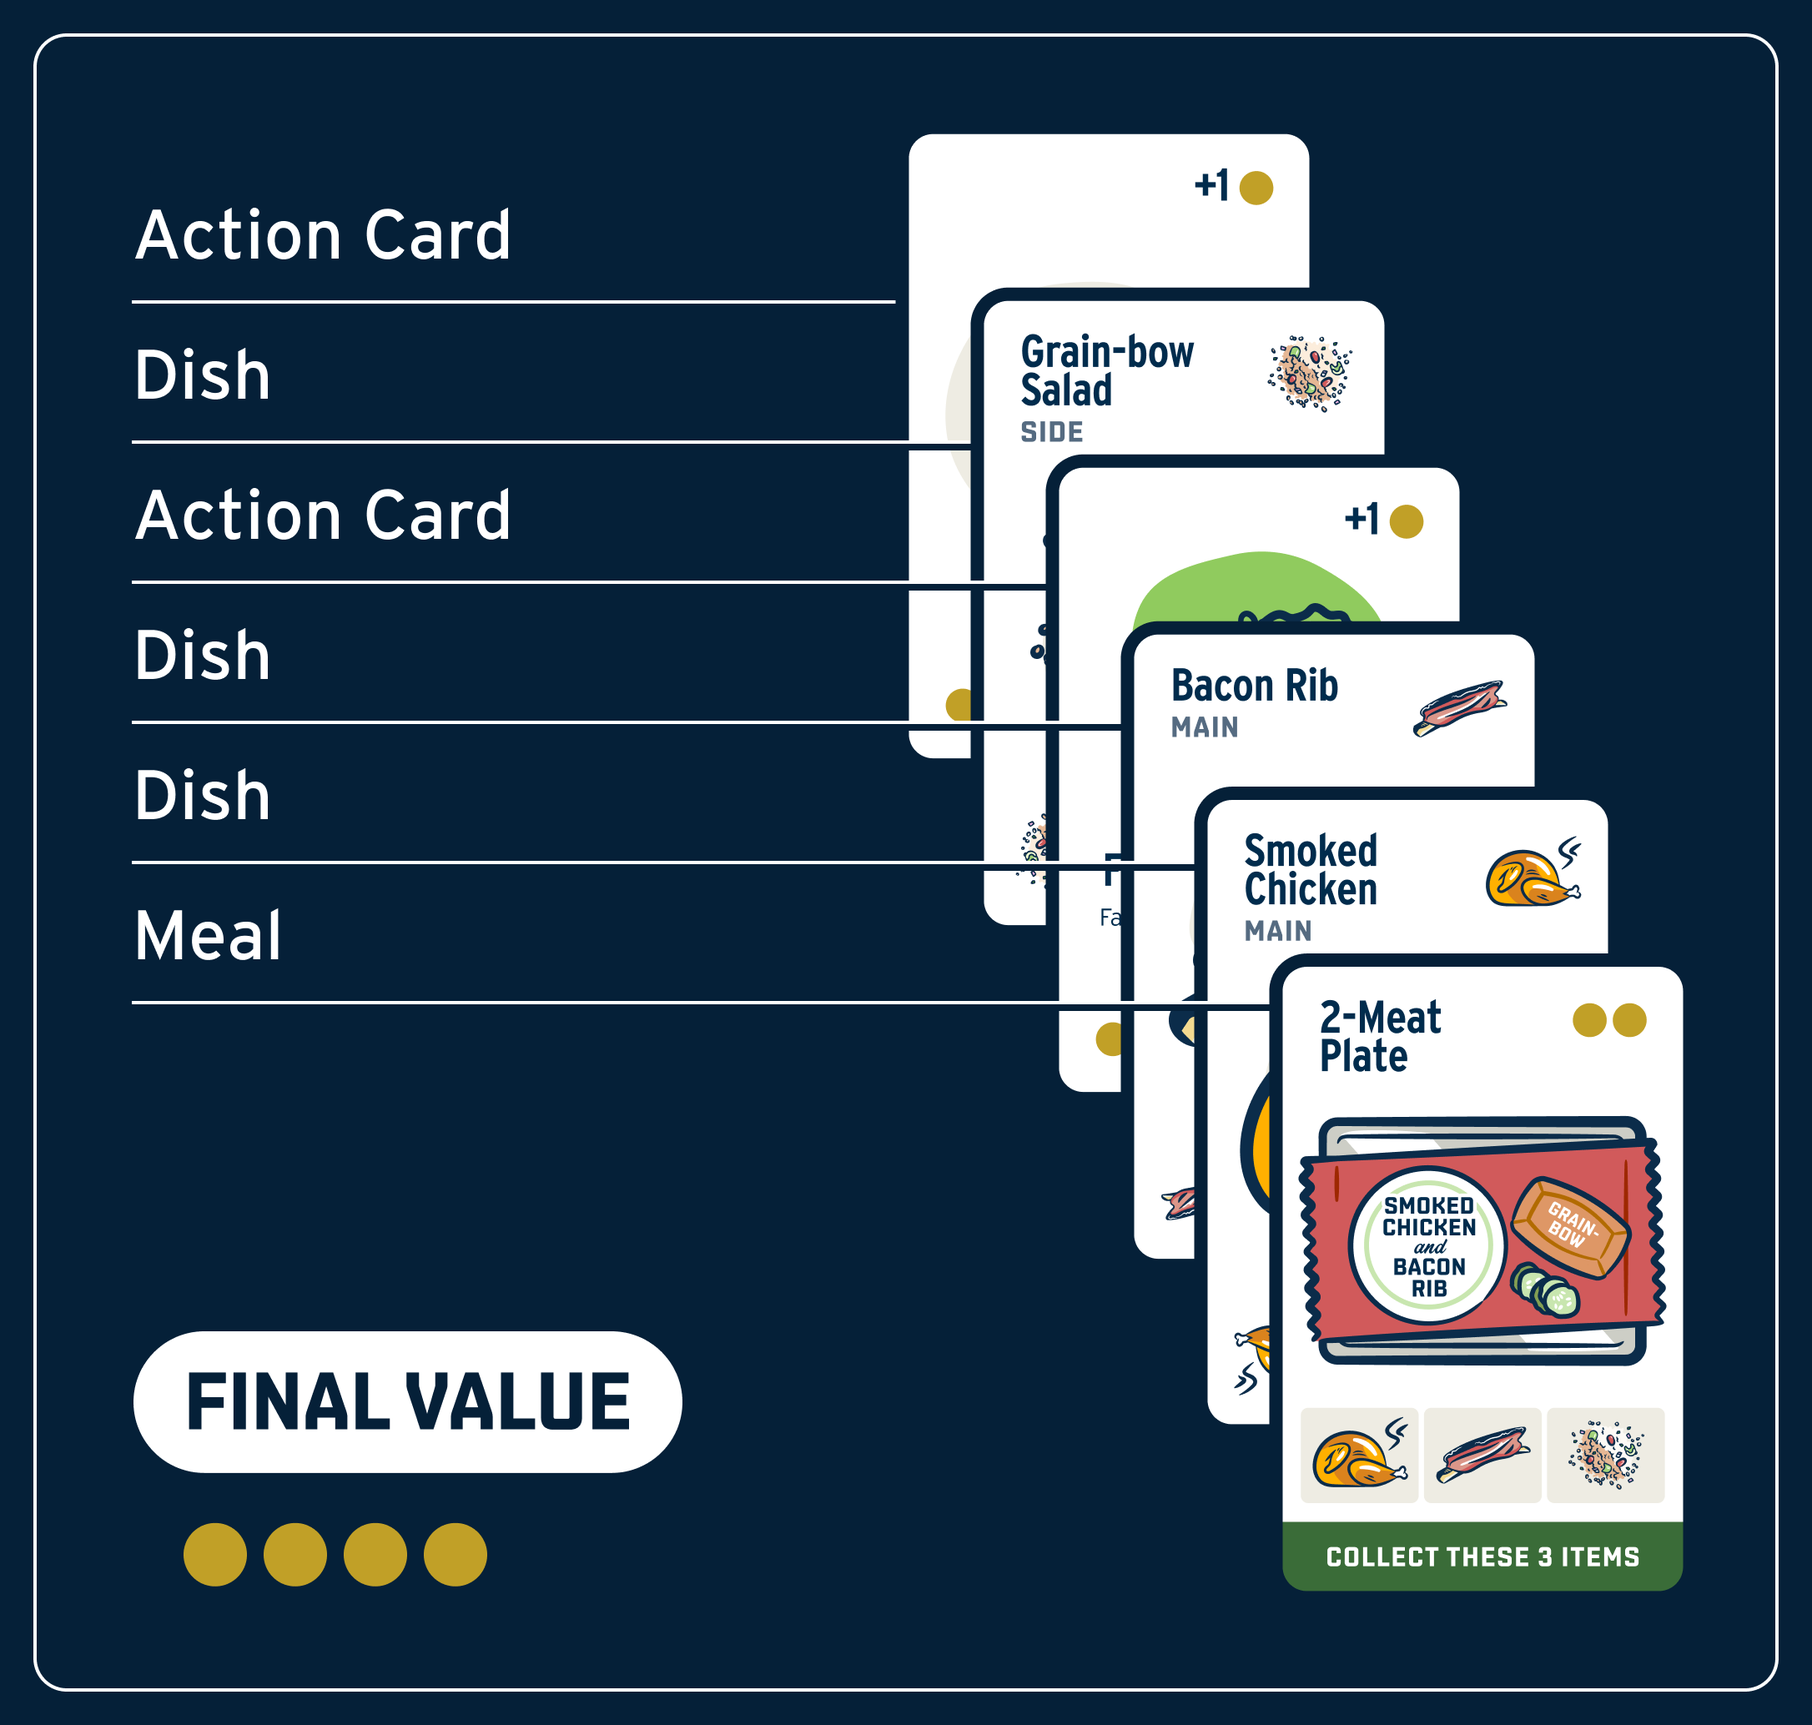
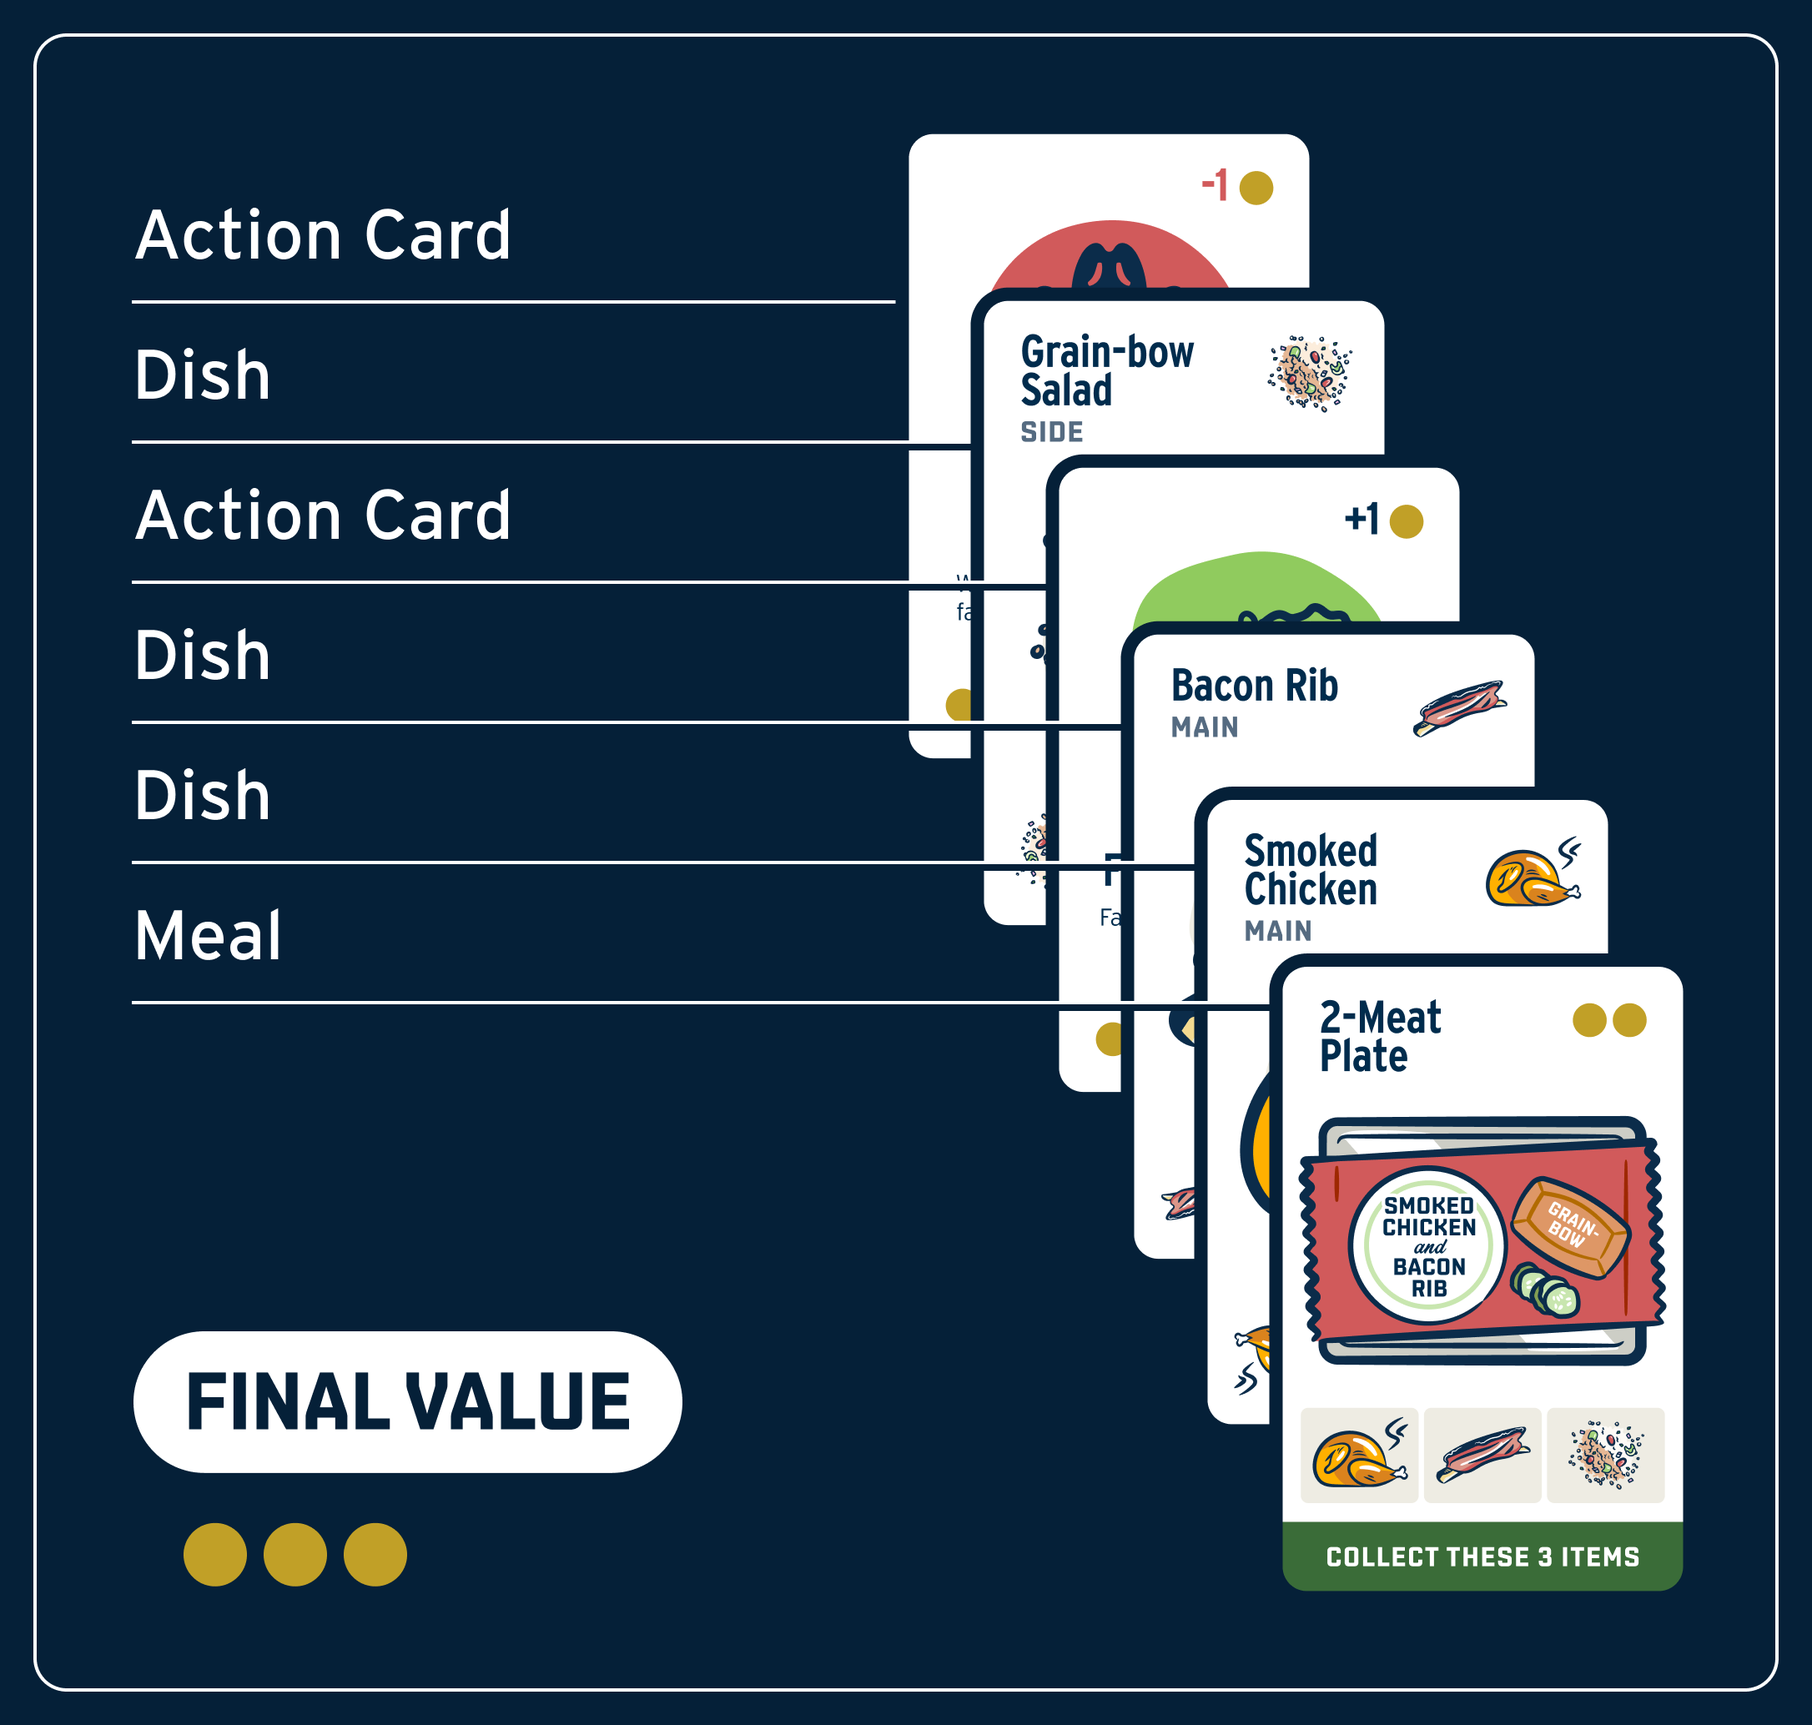
grid

Changed region(s): [[0.5552, 0.0928, 0.6786, 0.1857], [0.2159, 0.8665, 0.2776, 0.9284], [0.5244, 0.1857, 0.5552, 0.2785]]

diff --git a/index.html b/index.html
@@ -51,14 +51,14 @@
 
     </script>
 </head>
-<body class="bg-cream dark:bg-navy text-navy dark:text-white min-h-screen md:pt-16 flex flex-col items-center gap-12 md:gap-32">
+<body class="bg-cream dark:bg-navy text-navy dark:text-white min-h-screen pt-8 md:pt-16 flex flex-col items-center gap-12 md:gap-32">
 
     <img src="logo-light.svg" class="w-64 lg:w-80 dark:hidden" alt="LeRoy and Lewis Logo">
     <img src="logo-dark.svg" class="w-64 lg:w-80 hidden dark:inline-block" alt="LeRoy and Lewis Logo">
 
     <div class="cards grid grid-cols-2 lg:grid-cols-4 gap-4 max-w-7xl mx-auto w-full px-8">
         <a href="#video" class="card opacity-0 translate-y-4 transition-all duration-700 delay-200 rounded-2xl bg-gold dark:bg-black bg-opacity-20 dark:bg-opacity-40 flex flex-col gap-3 p-6 text-navy dark:text-cream items-center md:items-start">
-            <span class="material-symbols-outlined text-6xl text-gold">animated_images</span>
+            <span class="material-symbols-outlined text-6xl text-gold font-medium">animated_images</span>
             <strong class="text-xl md:text-3xl leading-none text-center md:text-left">Quickstart Video</strong>
         </a>
         <a href="#rules" class="card opacity-0 translate-y-4 transition-all duration-700 delay-300 rounded-2xl bg-gold dark:bg-black bg-opacity-20 dark:bg-opacity-40 flex flex-col gap-3 p-6 text-navy dark:text-cream items-center md:items-start">
@@ -127,25 +127,23 @@
 
     <h2 id="started" class="section-title">Getting Started</h2>
 
-    <div class="flex flex-col md:flex-row gap-2 border-b-2">
+    <div class="flex flex-col md:flex-row gap-2 border-b-2 border-navy dark:border-cream">
       <div class="grow">
         <h3 class="text-3xl font-semibold">Make meals<br></h3>
         <span class="text-base leading-tight block mt-1">Match meal cards with Dish cards</span>
       </div>
 
       <div>
-        <span class="material-symbols-outlined text-4xl text-gold mt-4 text-center md:hidden">arrow_downward</span>
-        <span class="material-symbols-outlined text-4xl text-gold mt-4 text-center max-sm:hidden md:mr-6 items-center">arrow_right_alt</span>
+        <span class="material-symbols-outlined text-4xl text-gold mt-4 text-center md:-rotate-90">arrow_downward</span>
       </div>
 
       <div class="grow">
         <h3 class="text-3xl font-semibold">Spoil others' meals<br></h3>
-        <span class="text-base leading-tight block mt-1">Play action cards to get in the way</span>
+        <span class="text-base leading-tight block mt-1">Play Action cards to get in the way</span>
       </div>
 
       <div>
-        <span class="material-symbols-outlined text-4xl text-gold mt-4 text-center md:hidden">arrow_downward</span>
-        <span class="material-symbols-outlined text-4xl text-gold mt-4 text-center max-sm:hidden md:mr-6 items-center">arrow_right_alt</span>
+        <span class="material-symbols-outlined text-4xl text-gold mt-4 text-center md:-rotate-90">arrow_downward</span>
       </div>
 
       <div class="mb-12 grow">
@@ -188,7 +186,7 @@
 
     <h3 class="subsection"><span class="opacity-60">Phase Two:</span> Play</h3>
 
-    <p>During your turn, you can play any number of cards. You can play <strong>Meal cards</strong> in the space in front of you, <strong>Dish cards</strong> under the Meal, and <strong>action cards</strong> to add coins to your own Meals or to sabotage the Meals of others.</p>
+    <p>During your turn, you can play any number of cards. You can play <strong>Meal cards</strong> in the space in front of you, <strong>Dish cards</strong> under the Meal, and <strong>Action cards</strong> to add coins to your own Meals or to sabotage the Meals of others.</p>
 
     <p>On the table, you may only be working on <strong>3 active Meals</strong> at one time. If you complete or drop a Meal, you may start on a new Meal in the empty slot.</p>
 
@@ -202,19 +200,20 @@
 
     <h2 id="anatomy" class="section-title">Anatomy of a Meal</h2>
 
-    <p>Let's take a look at a finished Meal card, complete with multiple <strong>action cards</strong>, good and bad, attached:</p>
+    <p>Let's take a look at a finished Meal card, complete with multiple <strong>Action cards</strong>, good and bad, attached:</p>
 
     <img class="md:rounded-2xl mb-0 md:mb-8 !mx-0 md:!mx-8" src="instructions-dish-layout.png" alt="">
 
-    <p>Take note of a few things</p>
+    <p><strong>Take note of a few things:</strong></p>
 
       <ul class="list-disc pl-5">
       <li class="pl-2 mb-2">Collect all three dishes, <strong>Smoked Chicken, Bacon Rib, and Grain-bow Salad</strong>, as listed at the bottom of the Meal card.</li>
-      <li class="pl-2 mb-2">You, or another player, played two +1 coin action cards.</li>
-      <li class="pl-2 mb-2">The final Meal is worth 4 coins.</li>
+      <li class="pl-2 mb-2">You, or a friendly player, played a <strong>+1 coin</strong> Action card.</li>
+      <li class="pl-2 mb-2">An opposing player played a <strong>-1 coin</strong> Action card.</li>
+      <li class="pl-2 mb-2">The final Meal is worth <strong>3 coins</strong>.</li>
     </ul>
 
-    <p>Once a Meal is final, <strong>it is safe from future action cards.</strong> Gather the cards and turn the Meal sideways, to mark it <strong>complete.</strong></p>
+    <p>Once a Meal is final, <strong>it is safe from future Action cards.</strong> Gather the cards and turn the Meal sideways, to mark it <strong>complete.</strong></p>
 
     <img class="md:rounded-2xl mb-0 md:mb-8 !mx-0 md:!mx-8" src="instructions-completed-dish.png" alt="">
 
@@ -222,7 +221,7 @@
 
     <p>The game is over when any player completes 3 Meals. <strong>The winner is the player that has earned the most coins on their completed Meals.</strong> Only Meals that are complete with all Dishes can be tallied.</p>
 
-    <p>Take note of any <strong>action cards</strong> that may add or subtract coins from your Meals.</p>
+    <p>Take note of any <strong>Action cards</strong> that may add or subtract coins from your Meals.</p>
 
     <div class="callout">
         <div class="flex flex justify-center w-full md:w-48 bg-gold pt-0">
@@ -238,64 +237,62 @@
 
     <p class="mb-8">Use <strong>Action Cards</strong> to turn up the heat! Target other players, give yourself more Coin, block to play defense. When an <strong>Action Card</strong> is played, discard it to the bottom of <strong>The Pantry</strong> card pile.</p>
 
-    <div class="md:grid-cols-2">
-            <div 01>
-                <div class="action-card flex gap-8 mb-8">
-                  <div class="w-1/4">
-                  <img src="089-action-cancel.png" alt="" class="drop-shadow-lg rounded-lg md:rounded-2xl">
-                  </div>
-                  <div class="w-3/4">
-                    Instantly play a <strong>Not So Fast</strong> card during anyone's turn to cancel the effect of any other Action Card. Stop another player from taking a coin from your Meal, or stop another player from dropping a Meal.
-                  </div>
-                </div>
-
-                <div class="action-card flex gap-8 mb-8">
-                  <div class="w-1/4">
-                  <img src="091-action-dropped-tray.png" alt="" class="drop-shadow-lg rounded-lg md:rounded-2xl">
-                  </div>
-                  <div class="w-3/4">
-                    Instantly play a <strong>Dropped Tray</strong> card during anyone's turn to remove any in-progress <strong>Meal</strong> from play. If a <strong>Meal</strong> is complete, it CANNOT be dropped. 
-                  </div>
-                </div>
-
-                <div class="action-card flex gap-8 mb-8">
-                  <div class="w-1/4">
-                  <img src="085-action-minus.png" alt="" class="drop-shadow-lg rounded-lg md:rounded-2xl">
-                  </div>
-                  <div class="w-3/4">
-                    Instantly play a <strong>Minus One Coin</strong> card during anyone's turn onto any <strong>Meal</strong> card. If a <strong>Meal</strong> is complete, it CANNOT be targeted by Action Cards. 
-                  </div>
-                </div>
-            </div>
-
-            <div 02>
-                <div class="action-card flex gap-8 mb-8">
-                  <div class="w-1/4">
-                  <img src="094-action-chef-peek.png" alt="" class="drop-shadow-lg rounded-lg md:rounded-2xl">
-                  </div>
-                  <div class="w-3/4">
-                    During your turn, play a <strong>Peek</strong> card to look through and take any cards in in the top five of either the <strong>Draw Pile</strong> or the <strong>Pantry</strong>.
-                  </div>
-                </div>
-
-                <div class="action-card flex gap-8 mb-8">
-                  <div class="w-1/4">
-                  <img src="082-action-plus.png" alt="" class="drop-shadow-lg rounded-lg md:rounded-2xl">
-                  </div>
-                  <div class="w-3/4">
-                    During your turn, play a <strong>+1 Coin</strong> card to add a coin to any active <strong>Meal</strong>. You can play a coin on your Meal or on a Meal from any other player.
-                  </div>
-                </div>
-
-                <div class="action-card flex gap-8 mb-8">
-                  <div class="w-1/4">
-                  <img src="096-action-grackle-dang.png" alt="" class="drop-shadow-lg rounded-lg md:rounded-2xl">
-                  </div>
-                  <div class="w-3/4">
-                    During your turn, play a <strong>Grackle</strong> card to steal a card, face down, from any other player. Discard the Grackle at the bottom of the <strong>Pantry</strong>.
-                  </div>
-            </div>
+    <div class="grid md:grid-cols-3 gap-8">
+            
+        <div class="action-card flex-col gap-8 mb-16 pb-16 border-b border-navy dark:border-cream">
+          <div class="max-w-full">
+          <img src="089-action-cancel.png" alt="" class="drop-shadow-lg rounded-lg md:rounded-2xl">
+          </div>
+          <div class="flex-auto pt-8">
+            Instantly play a <strong>Not So Fast</strong> card during anyone's turn to cancel the effect of any other Action Card. Stop another player from taking a coin from your Meal, or stop another player from dropping a Meal.
+          </div>
         </div>
+
+        <div class="action-card flex-col gap-8 mb-16 pb-16 border-b border-navy dark:border-cream">
+          <div class="max-w-full">
+          <img src="091-action-dropped-tray.png" alt="" class="drop-shadow-lg rounded-lg md:rounded-2xl">
+          </div>
+          <div class="flex-auto pt-8">
+            Instantly play the <strong>A dropped tray!</strong> card during anyone's turn to remove any in-progress <strong>Meal</strong> from play. If a <strong>Meal</strong> is complete, it CANNOT be dropped.
+          </div>
+        </div>
+
+        <div class="action-card flex-col gap-8 mb-16 pb-16 border-b border-navy dark:border-cream">
+          <div class="max-w-full">
+          <img src="085-action-minus.png" alt="" class="drop-shadow-lg rounded-lg md:rounded-2xl">
+          </div>
+          <div class="flex-auto pt-8">
+            Instantly play a <strong>Minus One Coin</strong> card during anyone's turn onto any <strong>Meal</strong> card. If a <strong>Meal</strong> is complete, it CANNOT be targeted by Action Cards.
+          </div>
+        </div>
+
+        <div class="action-card flex-col gap-8 mb-16 pb-16 border-b border-navy dark:border-cream">
+          <div class="max-w-full">
+          <img src="094-action-chef-peek.png" alt="" class="drop-shadow-lg rounded-lg md:rounded-2xl">
+          </div>
+          <div class="flex-auto pt-8">
+            During your turn, play a <strong>Peek</strong> card to look through and take any cards in in the top five of either the <strong>Draw Pile</strong> or the <strong>Pantry</strong>.
+          </div>
+        </div>
+
+        <div class="action-card flex-col gap-8 mb-16 pb-16 border-b border-navy dark:border-cream">
+          <div class="max-w-full">
+          <img src="082-action-plus.png" alt="" class="drop-shadow-lg rounded-lg md:rounded-2xl">
+          </div>
+          <div class="flex-auto pt-8">
+            During your turn, play a <strong>+1 Coin</strong> card to add a coin to any active <strong>Meal</strong>. You can play a coin on your Meal or on a Meal from any other player.
+          </div>
+        </div>
+
+        <div class="action-card flex-col gap-8 mb-16 pb-16 border-b border-navy dark:border-cream">
+          <div class="max-w-full">
+          <img src="096-action-grackle-dang.png" alt="" class="drop-shadow-lg rounded-lg md:rounded-2xl">
+          </div>
+          <div class="flex-auto pt-8">
+            During your turn, play a <strong>Grackle</strong> card to steal a card, face down, from any other player. Discard the Grackle at the bottom of the <strong>Pantry</strong>.
+          </div>
+        </div>
+
     </div>
 
   <p><a href='/'>← Go Back</a></p>
@@ -309,7 +306,7 @@
 
 
 <footer class="max-w-7xl px-8 w-full flex justify-between mb-24">
-    <div>&copy; 2024 LeRoy and Lewis The Game</div>
+    <div>&copy; 2024 LeRoy and Lewis: The Game</div>
 </footer>
 
     

diff --git a/style.css b/style.css
@@ -941,6 +941,10 @@ video {
   max-width: 100%;
 }
 
+.flex-auto {
+  flex: 1 1 auto;
+}
+
 .flex-shrink {
   flex-shrink: 1;
 }
@@ -1953,6 +1957,11 @@ video {
   border-color: rgb(253 230 138 / var(--tw-border-opacity));
 }
 
+.border-navy {
+  --tw-border-opacity: 1;
+  border-color: rgb(0 44 77 / var(--tw-border-opacity));
+}
+
 .bg-\[\#D15A5B\] {
   --tw-bg-opacity: 1;
   background-color: rgb(209 90 91 / var(--tw-bg-opacity));
@@ -2067,6 +2076,10 @@ video {
   background-origin: content-box;
 }
 
+.stroke-1 {
+  stroke-width: 1;
+}
+
 .object-contain {
   -o-object-fit: contain;
      object-fit: contain;
@@ -2130,6 +2143,18 @@ video {
 
 .pt-0 {
   padding-top: 0px;
+}
+
+.pt-8 {
+  padding-top: 2rem;
+}
+
+.pb-16 {
+  padding-bottom: 4rem;
+}
+
+.pt-6 {
+  padding-top: 1.5rem;
 }
 
 .text-left {
@@ -2229,6 +2254,10 @@ video {
 
 .font-semibold {
   font-weight: 600;
+}
+
+.font-medium {
+  font-weight: 500;
 }
 
 .uppercase {
@@ -2876,6 +2905,11 @@ video {
   border-color: rgb(0 0 0 / var(--tw-border-opacity));
 }
 
+.dark\:border-cream:is(.dark *) {
+  --tw-border-opacity: 1;
+  border-color: rgb(238 236 227 / var(--tw-border-opacity));
+}
+
 .dark\:bg-black:is(.dark *) {
   --tw-bg-opacity: 1;
   background-color: rgb(0 0 0 / var(--tw-bg-opacity));
@@ -2951,8 +2985,22 @@ video {
     max-width: 100%;
   }
 
+  .md\:rotate-90 {
+    --tw-rotate: 90deg;
+    transform: translate(var(--tw-translate-x), var(--tw-translate-y)) rotate(var(--tw-rotate)) skewX(var(--tw-skew-x)) skewY(var(--tw-skew-y)) scaleX(var(--tw-scale-x)) scaleY(var(--tw-scale-y));
+  }
+
+  .md\:-rotate-90 {
+    --tw-rotate: -90deg;
+    transform: translate(var(--tw-translate-x), var(--tw-translate-y)) rotate(var(--tw-rotate)) skewX(var(--tw-skew-x)) skewY(var(--tw-skew-y)) scaleX(var(--tw-scale-x)) scaleY(var(--tw-scale-y));
+  }
+
   .md\:grid-cols-2 {
     grid-template-columns: repeat(2, minmax(0, 1fr));
+  }
+
+  .md\:grid-cols-3 {
+    grid-template-columns: repeat(3, minmax(0, 1fr));
   }
 
   .md\:flex-row {
@@ -2969,6 +3017,10 @@ video {
 
   .md\:rounded-2xl {
     border-radius: 1rem;
+  }
+
+  .md\:border-r {
+    border-right-width: 1px;
   }
 
   .md\:pt-16 {
